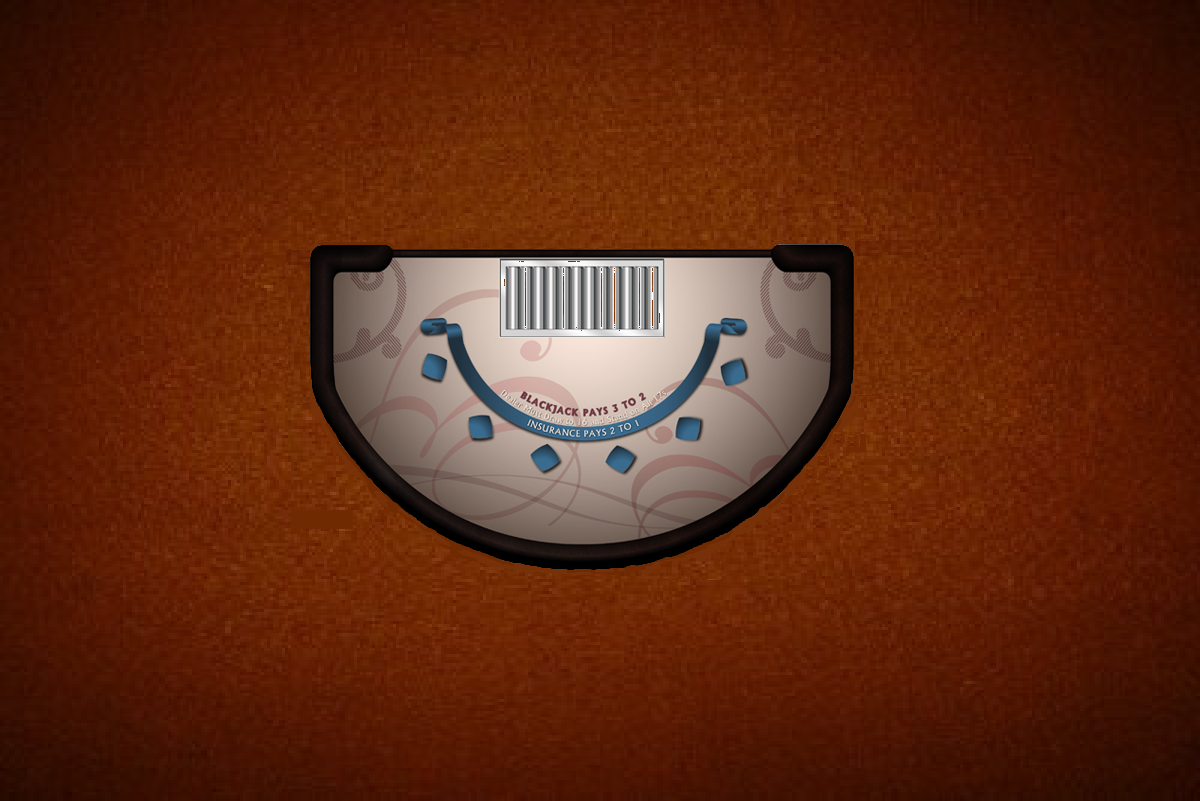
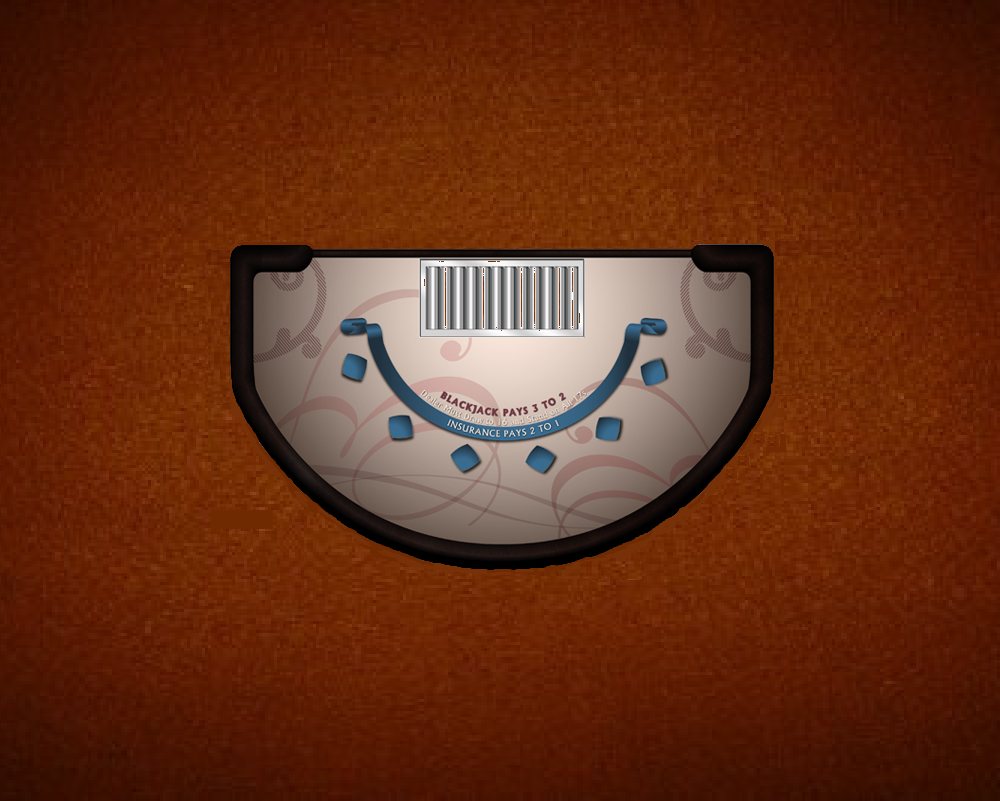
blackjack update

diff --git a/PublicEnemies/src/main/webapp/css/blackjack.css b/PublicEnemies/src/main/webapp/css/blackjack.css
@@ -14,6 +14,12 @@ h2 {
 #blackjack_table{
 	background-image: url(../img/layout/blackjack_layout.png);
 	background-repeat: no-repeat;
+	border-width: 2px;
+	border-color: #3A2F0B;
+	border-radius: 10px;
+	opacity: .95;
+	filter: alpha(opacity =  95);
+	-moz-opacity: .95;
 }
 button {
 	font-family: 'impact';
@@ -22,18 +28,6 @@ button {
 	height: 44px;
 }
 
-table.sample {
-	margin-top: 100px;
-	background-color: #444D48;
-	opacity: .95;
-	filter: alpha(opacity =                 95);
-	-moz-opacity: .95;
-	border-width: 3px;
-	border-spacing: 5px;
-	border-style: outset;
-	border-color: white;
-	border-collapse: separate;
-}
 
 
 A:link {

diff --git a/PublicEnemies/src/main/webapp/js/poker/raise.js b/PublicEnemies/src/main/webapp/js/poker/raise.js
@@ -210,7 +210,7 @@ $(document)
 						// combo.rank);
 						clearCombo();
 						$("td#" + (combo.rank - 1)).attr("class", "container");
-						$("td#" + (combo.rank - 1)).attr("title", combo.name);
+						$("td#" + (combo.rank - 1)).attr("title", "You have " + combo.name);
 					}
 
 					function clearCombo() {

diff --git a/PublicEnemies/src/main/java/com/epam/publicenemies/web/casino/poker/RaisePokerController.java b/PublicEnemies/src/main/java/com/epam/publicenemies/web/casino/poker/RaisePokerController.java
@@ -35,7 +35,6 @@ public class RaisePokerController {
 	private static Logger log = Logger.getLogger(RaisePokerController.class);
 	
 	static int counter = 0;
-	static int botChips = 5000;
 	
 	@Autowired
 	@Qualifier("pokerGames")
@@ -68,6 +67,7 @@ public class RaisePokerController {
 		PrintWriter out = response.getWriter();
 		JSONSerializer json = new JSONSerializer();
 		int botBet = 0;
+		int botChips = (Integer)request.getSession().getAttribute("botChips");
 		// Get player bet
 		Integer playerBet = Integer.valueOf(request.getParameter("playerBet"));
 		// Get userId
@@ -84,6 +84,9 @@ public class RaisePokerController {
 
 			game.setPokerGameRound(round);
 			log.info("Pot - " + round.getPot());
+			round.getPlayer2().setCash(round.getPlayer2().getCash() + round.getPot());
+			request.getSession().setAttribute("botChips", round.getPlayer2().getCash());
+			request.getSession().setAttribute("chips", round.getPlayer1().getCash());
 			log.info("Sending game after raise - " + json.serialize(game));
 			out.print(json.serialize(game));
 			out.flush();
@@ -110,6 +113,11 @@ public class RaisePokerController {
 				round.setResult("Bot folded");
 				game.setPokerGameRound(round);
 				log.info("Pot - " + round.getPot());
+				log.info("Player cash before fold - " + round.getPlayer1().getCash());
+				round.getPlayer1().setCash(round.getPlayer1().getCash() + round.getPot());
+				log.info("Player cash after fold - " + round.getPlayer1().getCash());
+				request.getSession().setAttribute("botChips", round.getPlayer2().getCash());
+				request.getSession().setAttribute("chips", round.getPlayer1().getCash());
 				log.info("Sending game after bot fold - " + json.serialize(game));
 				out.print(json.serialize(game));
 				out.flush();
@@ -117,6 +125,9 @@ public class RaisePokerController {
 			}
 			if(botBet == 0){
 				log.info("Bot folded");
+				round.getPlayer1().setCash(round.getPlayer1().getCash() + round.getPot());
+				request.getSession().setAttribute("botChips", round.getPlayer2().getCash());
+				request.getSession().setAttribute("chips", round.getPlayer1().getCash());
 				round.setResult("Bot folded");
 				game.setPokerGameRound(round);
 				log.info("Pot - " + round.getPot());
@@ -129,33 +140,59 @@ public class RaisePokerController {
 			
 			log.info("Bot bet after move - " + round.getPlayer2Bet());
 			log.info("bot just bet - " + botBet);
+			if(botBet > round.getPlayer2().getCash()){
+				botBet = round.getPlayer2().getCash();
+			}
 			round.setPlayer2Bet(round.getPlayer2Bet() + botBet);
 			log.info("Bot bet after adding - " + round.getPlayer2Bet());
 			round.getPlayer2().setCash(round.getPlayer2().getCash() - botBet);
 			log.info("Bet 1 - " + round.getPlayer1Bet() + " Bet 2 - " + round.getPlayer2Bet());
 		}
-		if(round.getPlayer1Bet() == round.getPlayer2Bet()){
+		if((round.getPlayer1Bet() == round.getPlayer2Bet()) || (round.getPlayer1().getCash() == 0) || (round.getPlayer2().getCash() == 0)){
 			counter++;
 			if(counter == 1){
 				round.flop();
+				if((round.getPlayer1().getCash() == 0) || (round.getPlayer2().getCash() == 0)){
+					round.turn();
+					round.river();
+					counter = 4;
+				}
 			}else if(counter == 2){
 				round.turn();
+				if((round.getPlayer1().getCash() == 0) || (round.getPlayer2().getCash() == 0)){
+					round.river();
+					counter = 4;
+				}
 			}else if(counter == 3){
 				round.river();
-			}else if(counter == 4){
+				if((round.getPlayer1().getCash() == 0) || (round.getPlayer2().getCash() == 0)){
+					counter = 4;
+				}
+			}
+			
+			
+			if(counter == 4){
 				String res = round.displayResults();
 				round.setResult(res);
 				if(res.contains(round.getPlayer1().getName())){
 					log.info("PLAYER 1 won and will recieve - "+round.getPot());
-					round.getPlayer1().setCash(round.getPlayer1().getCash() + round.getPot());			
+					round.getPlayer1().setCash(round.getPlayer1().getCash() + round.getPot());	
+					request.getSession().setAttribute("botChips", round.getPlayer2().getCash());
+					request.getSession().setAttribute("chips", round.getPlayer1().getCash());
 				}
 				else if(res.contains(round.getPlayer2().getName())){
 					log.info("PLAYER 2 won and will recieve - "+round.getPot());
+					log.info("Bot cash before win - " + round.getPlayer2().getCash());
 					round.getPlayer2().setCash(round.getPlayer2().getCash() + round.getPot());
+					log.info("Bot cash after win - " + round.getPlayer2().getCash());
+					request.getSession().setAttribute("botChips", round.getPlayer2().getCash());
+					request.getSession().setAttribute("chips", round.getPlayer1().getCash());
 				}else if (res.contains("Split pot")){
 					log.info("NOBODY won and both will recieve - "+round.getPot() / 2);
 					round.getPlayer2().setCash(round.getPlayer2().getCash() + round.getPot() / 2);
 					round.getPlayer1().setCash(round.getPlayer1().getCash() + round.getPot() / 2);
+					request.getSession().setAttribute("botChips", round.getPlayer2().getCash());
+					request.getSession().setAttribute("chips", round.getPlayer1().getCash());
 				}
 				log.info("RESULT - " + round.getResult());
 				botChips = round.getPlayer2().getCash();

diff --git a/PublicEnemies/src/main/java/com/epam/publicenemies/web/casino/poker/DealPokerController.java b/PublicEnemies/src/main/java/com/epam/publicenemies/web/casino/poker/DealPokerController.java
@@ -54,16 +54,18 @@ public class DealPokerController {
 		
 		Profile profile = (Profile) request.getSession().getAttribute("userProfile");
 		
+		Integer chips = (Integer) request.getSession().getAttribute("chips");
+		Integer botChips = (Integer) request.getSession().getAttribute("botChips");
+		
 		// Set round
-		IPokerPlayer player1 = new PokerPlayer(profile.getNickName(), profile.getMoney());
-		IPokerPlayer player2 = new EasyBot("Dirty Sanzhez", RaisePokerController.botChips);
+		IPokerPlayer player1 = new PokerPlayer(profile.getNickName(), chips);
+		IPokerPlayer player2 = new EasyBot("Dirty Sanzhez", botChips);
 		PokerRound round = new PokerRound(player1, player2, 25, 50);
-		log.info("DIRTY SANCHEZ HAS - " + RaisePokerController.botChips);
+		log.info("DIRTY SANCHEZ HAS - " + botChips);
 		round.setDealer(false);
 		round.initGame();
 		RaisePokerController.counter = 0;
 		
-		Integer chips = 0;
 		log.info("PUSH PUSH" + chips);
 		
 		// Get game

diff --git a/PublicEnemies/src/main/java/com/epam/publicenemies/domain/poker/EasyBot.java b/PublicEnemies/src/main/java/com/epam/publicenemies/domain/poker/EasyBot.java
@@ -111,10 +111,10 @@ public class EasyBot implements IPokerPlayer {
 				result = this.bet(pokerGame);
 				return result;
 			}
-			if(CombinationChecker.checkForStraightDraw(deck.getTable(), hand)){
+			/*if(CombinationChecker.checkForStraightDraw(deck.getTable(), hand)){
 				result = this.bet(pokerGame);
 				return result;
-			}
+			}*/
 
 			if(pokerGame.getPokerGameRound().getPlayer1Bet() == pokerGame.getPokerGameRound().getPlayer2Bet()){
 				return this.check(deck);
@@ -278,11 +278,11 @@ public class EasyBot implements IPokerPlayer {
 		return toCall;
 	}
 
-	private int check(PokerTable deck) {
+	private int check(PokerTable deck) throws FoldException {
 		if ( pokerGame.getPokerGameRound().getPlayer1Bet() ==  pokerGame.getPokerGameRound().getPlayer2Bet()){
 			return 0;
 		}
-		return -1;
+		throw new FoldException();
 	}
 
 	private int allIn() {

diff --git a/PublicEnemies/src/main/java/com/epam/publicenemies/web/casino/poker/PokerCreateController.java b/PublicEnemies/src/main/java/com/epam/publicenemies/web/casino/poker/PokerCreateController.java
@@ -72,12 +72,13 @@ public class PokerCreateController {
 
 		//==================CREATE GAME====================
 		games.createNewGame(userId, userProfile);
-		RaisePokerController.botChips = 5000;
 		RaisePokerController.counter = 0;
 		//==================CREATE GAME====================
 		
 		request.getSession().setAttribute("userProfile", profile);
 		log.info("POKER GAME: " + userId + "  CREATED");
+		request.getSession().setAttribute("chips", chips);
+		request.getSession().setAttribute("botChips", 4000);
 		Map<String, Object> objects = new HashMap<String, Object>();
 
 		objects.put("chips", chips);
